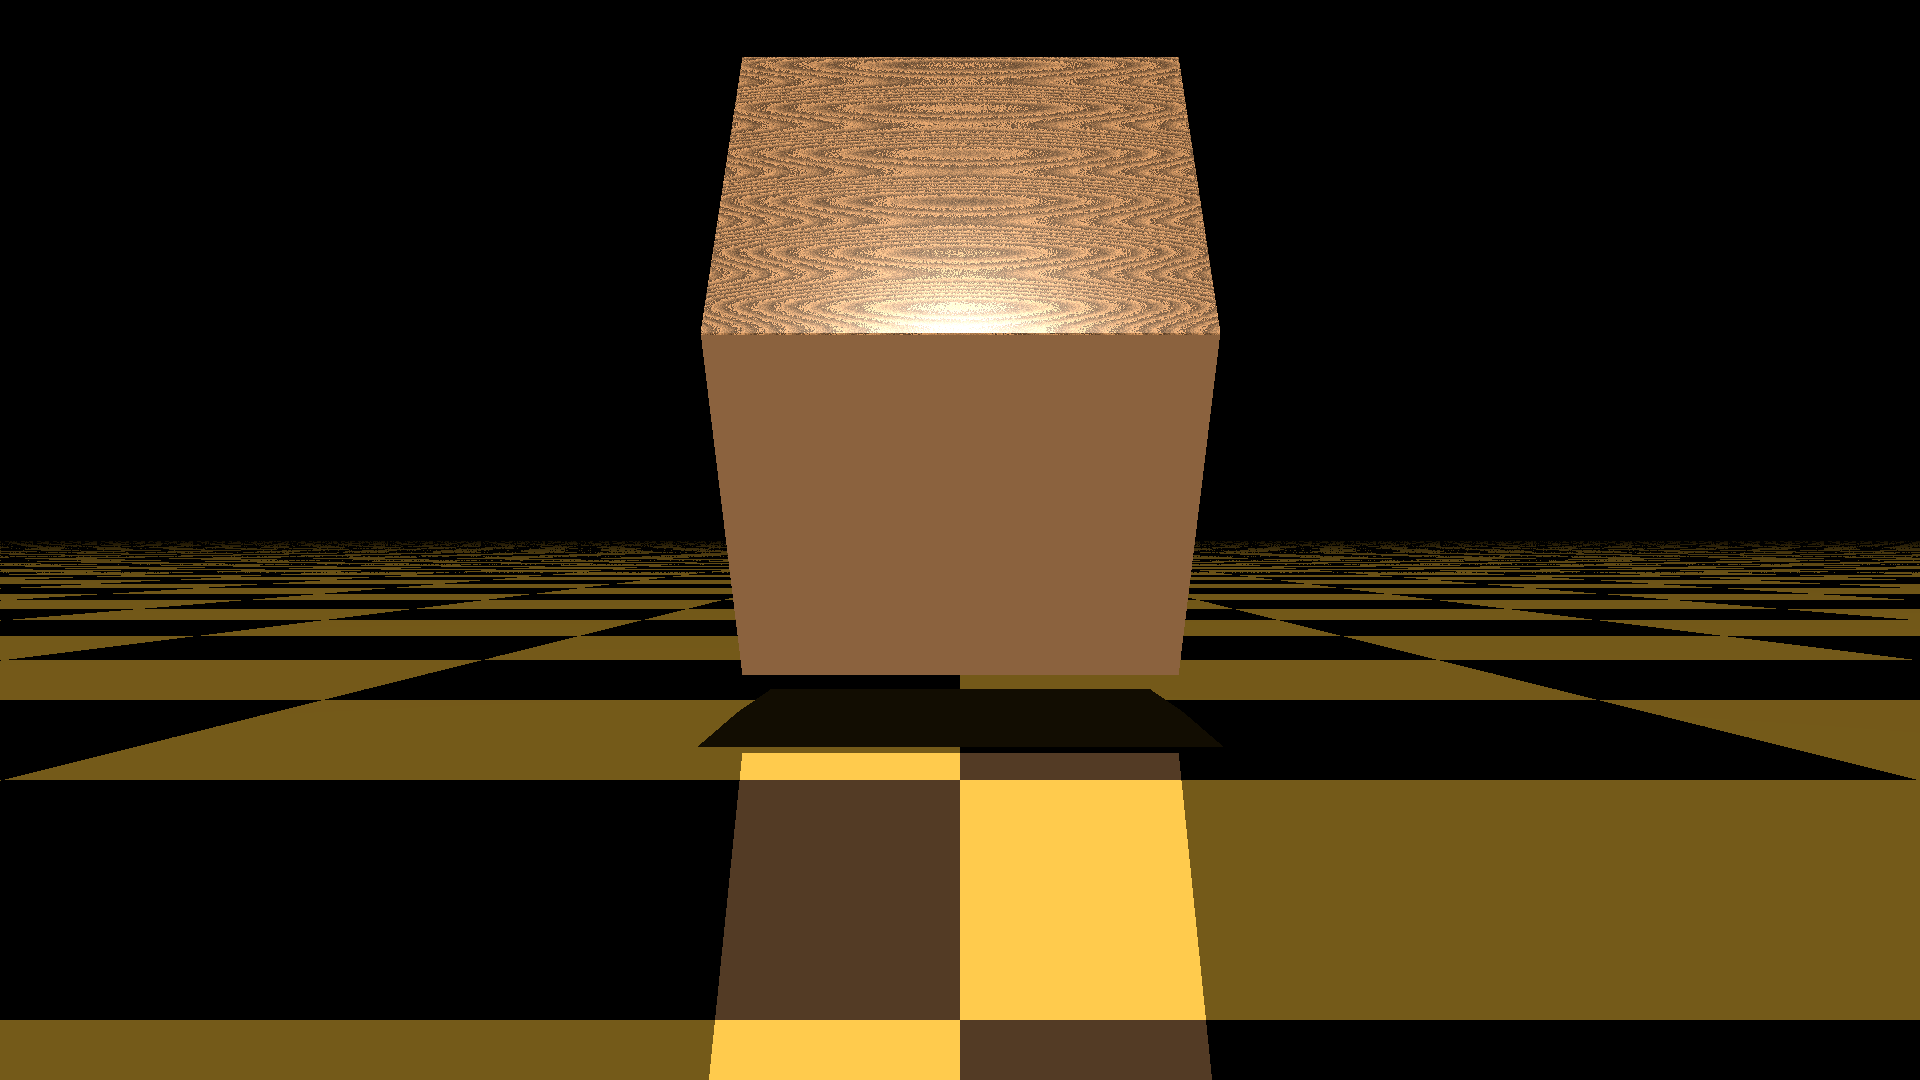
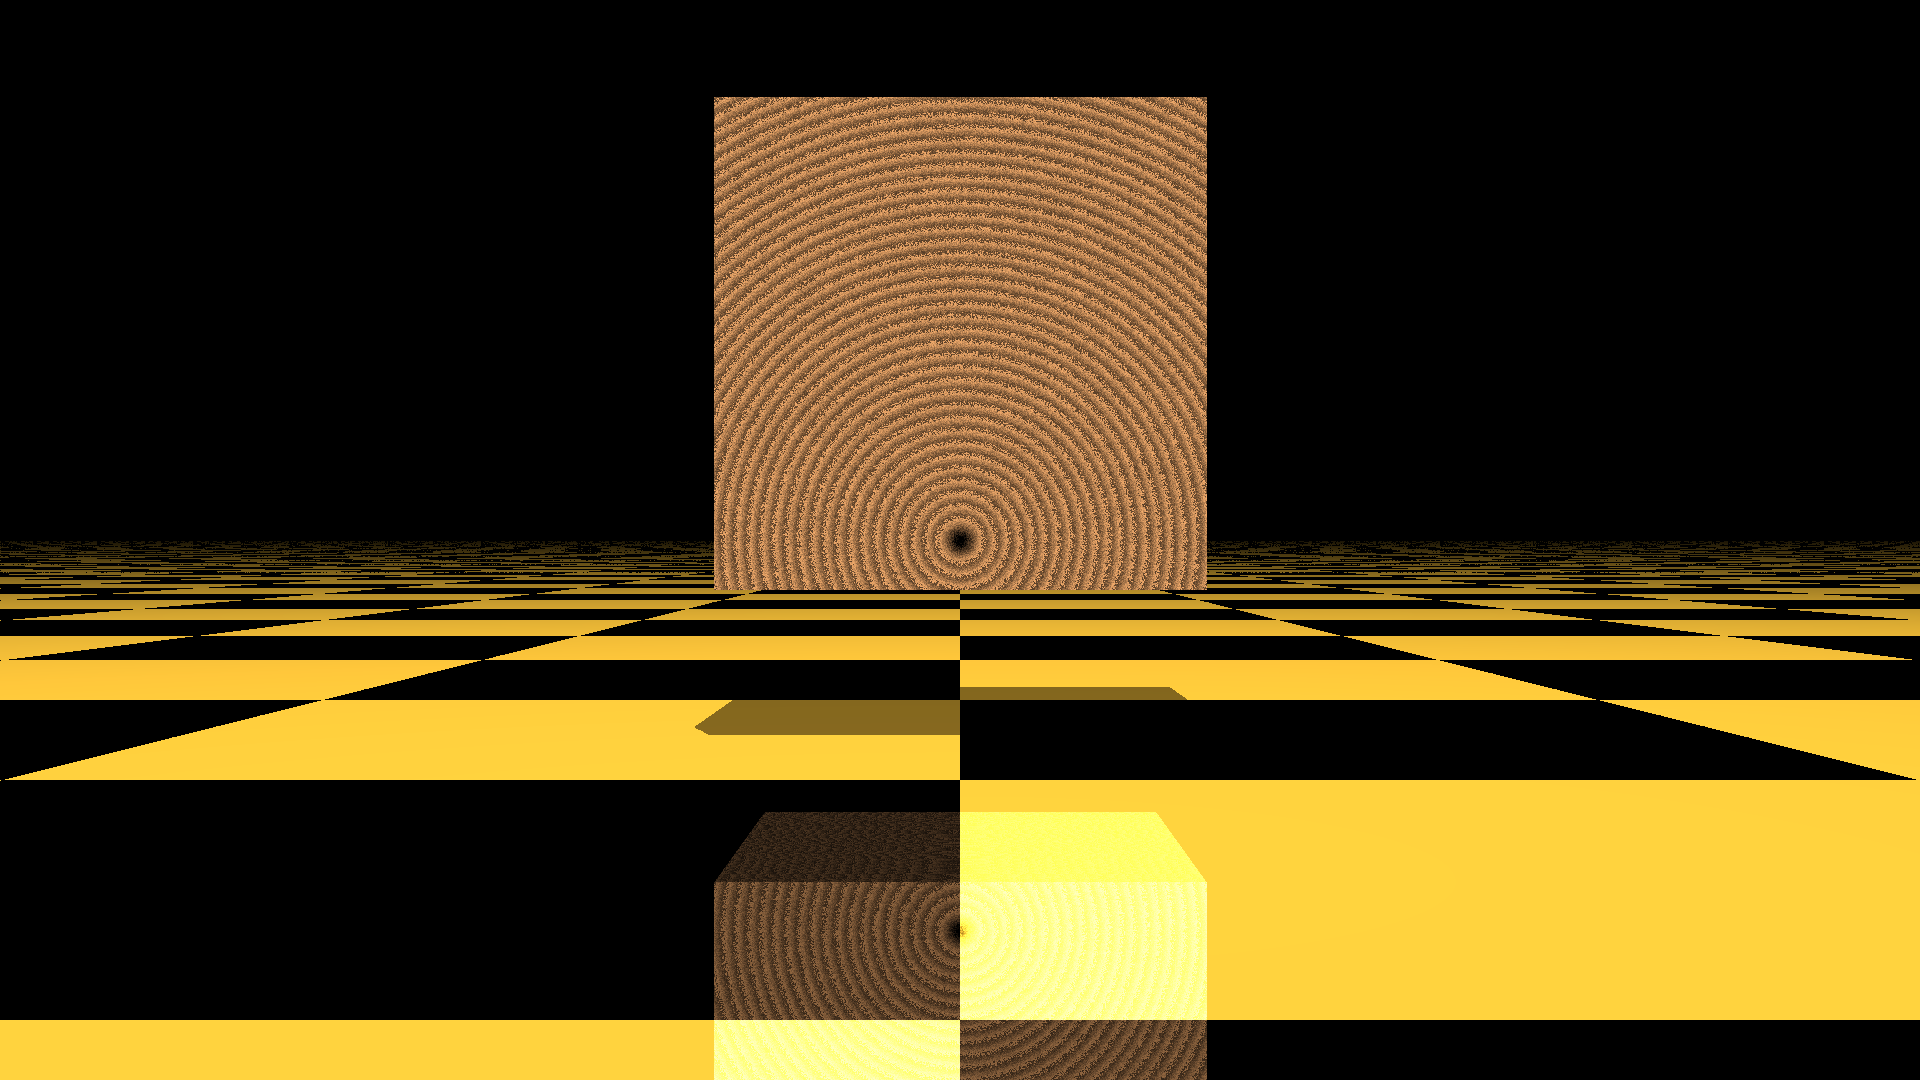
Fixed K-distribution

diff --git a/src/main/sdl/SDL.java b/src/main/sdl/SDL.java
@@ -21,6 +21,14 @@ import java.io.IOException;
 import java.util.*;
 
 public class SDL {
+    /**
+     * Will parse all objects from a file.
+     * @param sourcePath: The file to read.
+     * @param materials: The materials that will be looked for.
+     * @param skipLines: Number of lines to skip before reading the objects. Mostly used for settings.
+     * @return: List of materials found in the file.
+     * @throws IOException
+     */
     public static List<Object> parseObjects(String sourcePath, List<Material> materials, int skipLines) throws IOException {
         List<Object> objects = new ArrayList<>();
 
@@ -71,7 +79,7 @@ public class SDL {
             } else {
                 // currentline is a transformation
                 try {
-                    double[] coords = getCoords(currentLine.trim());
+                    double[] coords = getValues(currentLine.trim());
 
                     if (instruction.startsWith("translate")) {
                         translation = new Translation((int) coords[0], (int) coords[1], (int) coords[2]);
@@ -135,15 +143,15 @@ public class SDL {
             String text = currentLine.trim().toLowerCase();
             currentMaterial.setName(text);
 
-            currentMaterial.setAmbient(getCoords(reader.readLine().trim()));
-            currentMaterial.setDiffuse(getCoords(reader.readLine().trim()));
-            currentMaterial.setSpecular(getCoords(reader.readLine().trim()));
-            currentMaterial.setRefractionIndex(getCoords(reader.readLine()));
+            currentMaterial.setAmbient(getValues(reader.readLine().trim()));
+            currentMaterial.setDiffuse(getValues(reader.readLine().trim()));
+            currentMaterial.setSpecular(getValues(reader.readLine().trim()));
+            currentMaterial.setRefractionIndex(getValues(reader.readLine()));
 
             String roughness = reader.readLine().trim();
             currentMaterial.setRoughness(Double.parseDouble(roughness.substring(roughness.indexOf(" "))));
 
-            currentMaterial.setkDistribution(getCoords(reader.readLine().trim()));
+            currentMaterial.setkDistribution(getValues(reader.readLine().trim()));
 
             String shininess = reader.readLine().trim();
             currentMaterial.setShininess(Double.parseDouble(shininess.substring(shininess.indexOf(" "))));
@@ -162,7 +170,12 @@ public class SDL {
         return materials;
     }
 
-    private static double[] getCoords(String currentLine) {
+    /**
+     * Will get the next three values from a string.
+     * @param currentLine: The text to scan.
+     * @return: Three values from the text.
+     */
+    private static double[] getValues(String currentLine) {
         System.out.println(currentLine);
         int indexOfFirstSpace = currentLine.indexOf(" ");
         String textWithoutTransformationWord = currentLine.substring(indexOfFirstSpace);

diff --git a/src/main/Renderer.java b/src/main/Renderer.java
@@ -363,16 +363,10 @@ public class Renderer {
             // check first for possible shadow spots
             Vector dir = new Vector(lightsource.getKey().getX() - hitpoint.getX(), lightsource.getKey().getY() - hitpoint.getY(), lightsource.getKey().getZ() - hitpoint.getZ(), 0);
 
-            if (shadowsEnabled) {
-                if (isInShadow(start, dir)) {
-                    for (int i = 0; i < 3; i++) {
-                        rgb[i] -= rgb[i] * 0.01 * lightsourceFactor; // dim the scene a bit
-                    }
-                    continue;
-                }
-            }
-
             // continue onto diffuse and specular
+            /*
+            DIFFUSE
+             */
             double[] s = Utility.normalize(Utility.subtract(lightsource.getKey().getCoords(), hitpoint.getCoords()));
 
             double mDots = Utility.dot(s, normalVector);
@@ -395,6 +389,16 @@ public class Renderer {
 
             for (int i = 0; i < 3; i++) {
                 rgb[i] *= textureRgb[i];
+            }
+
+
+            if (shadowsEnabled) {
+                if (isInShadow(start, dir)) {
+                    for (int i = 0; i < 3; i++) {
+                        rgb[i] -= rgb[i] * 5 * lightsourceFactor; // dim the scene a bit
+                    }
+                    continue;
+                }
             }
 
             /*

diff --git a/src/main/Main.java b/src/main/Main.java
@@ -23,7 +23,7 @@ public class Main {
         */
 
         // scene
-        Vector lightsourceWhite = new Vector(1800, 0, -2000, 1); // location
+        Vector lightsourceWhite = new Vector(1800, 0, -500, 1); // location
         Vector lightsourceBlue = new Vector(5000, -500, -1000, 1); // location
         Vector lightsourceRed = new Vector(500, 500, -800, 1); // location
         Vector lightsourceOrange = new Vector(-10000, 1000, -1000, 1); // location
@@ -44,7 +44,7 @@ public class Main {
         try {
             scene.addMaterials(SDL.parseMaterial("scenes/materials.sdl", 0));
             scene.addObjects(SDL.parseObjects("scenes/sdlOneObject.sdl", scene.getMaterials(), 8));
-            settings = SDL.parseSettings("scenes/sdlOneObject.sdl", 0);
+            settings = SDL.parseSettings("scenes/sdlAllObjects.sdl", 0);
         } catch (IOException e) {
             System.out.println("Problem reading sdl: " + e.getMessage());
         }
